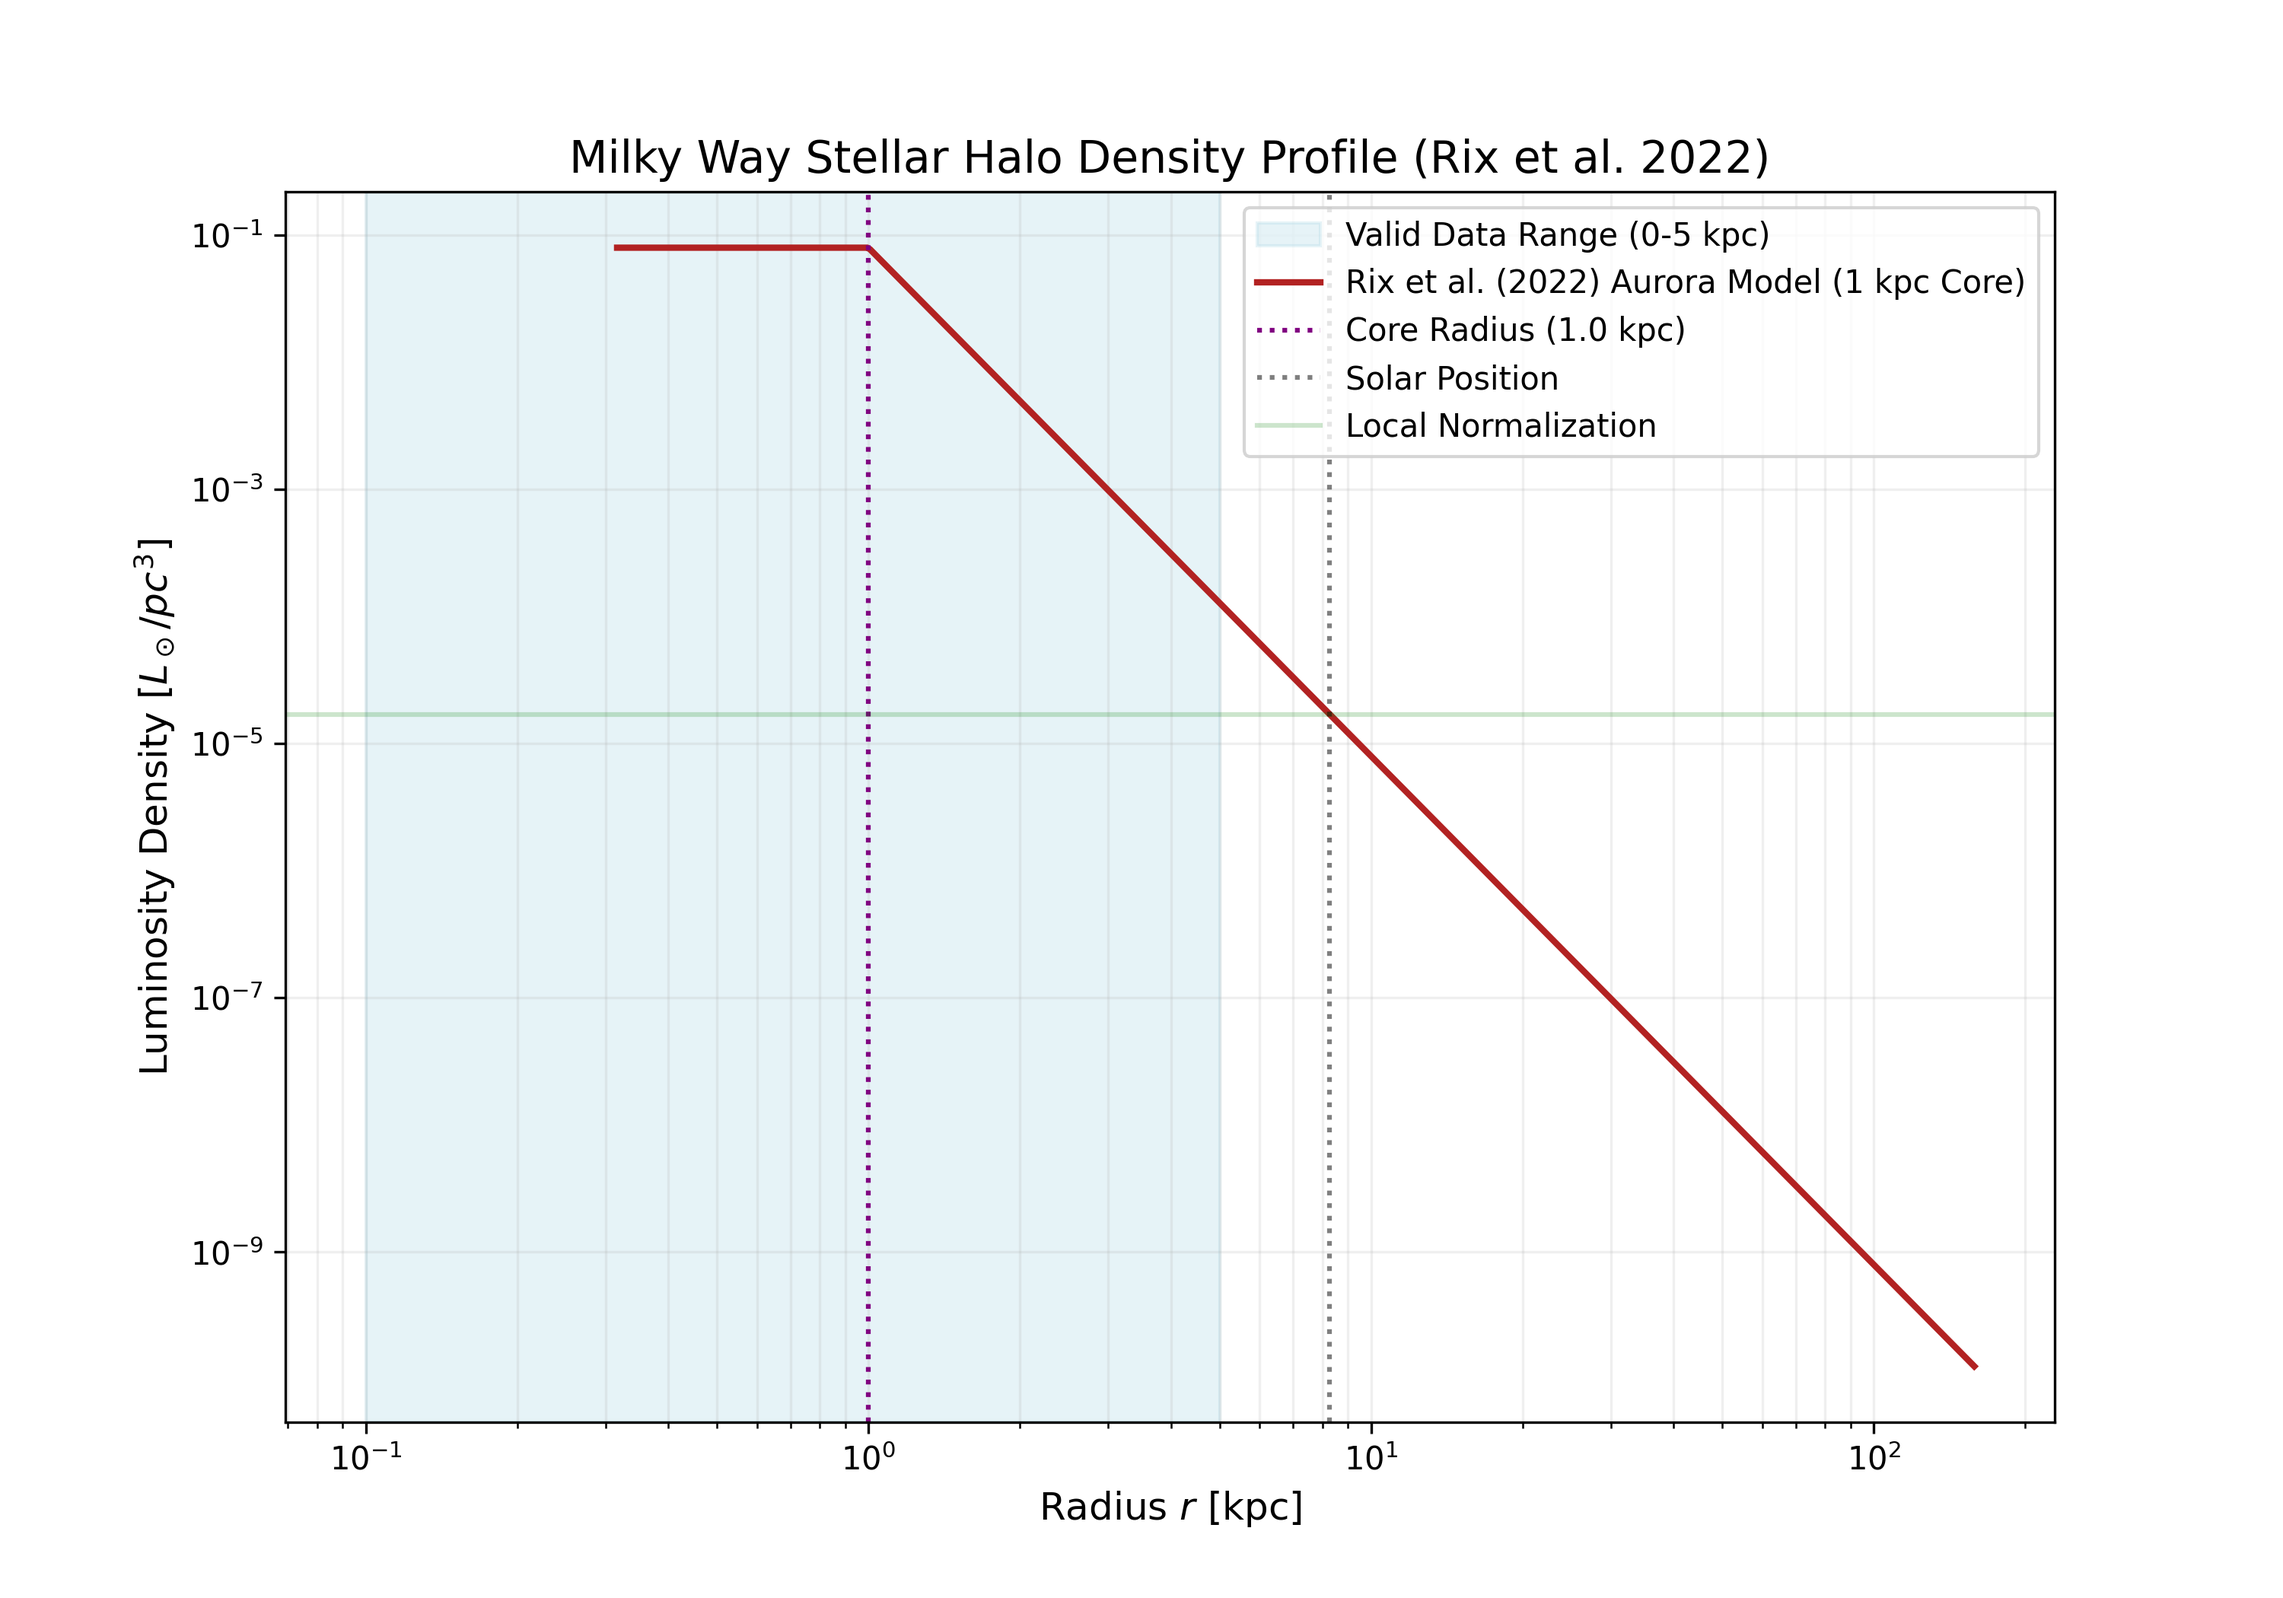
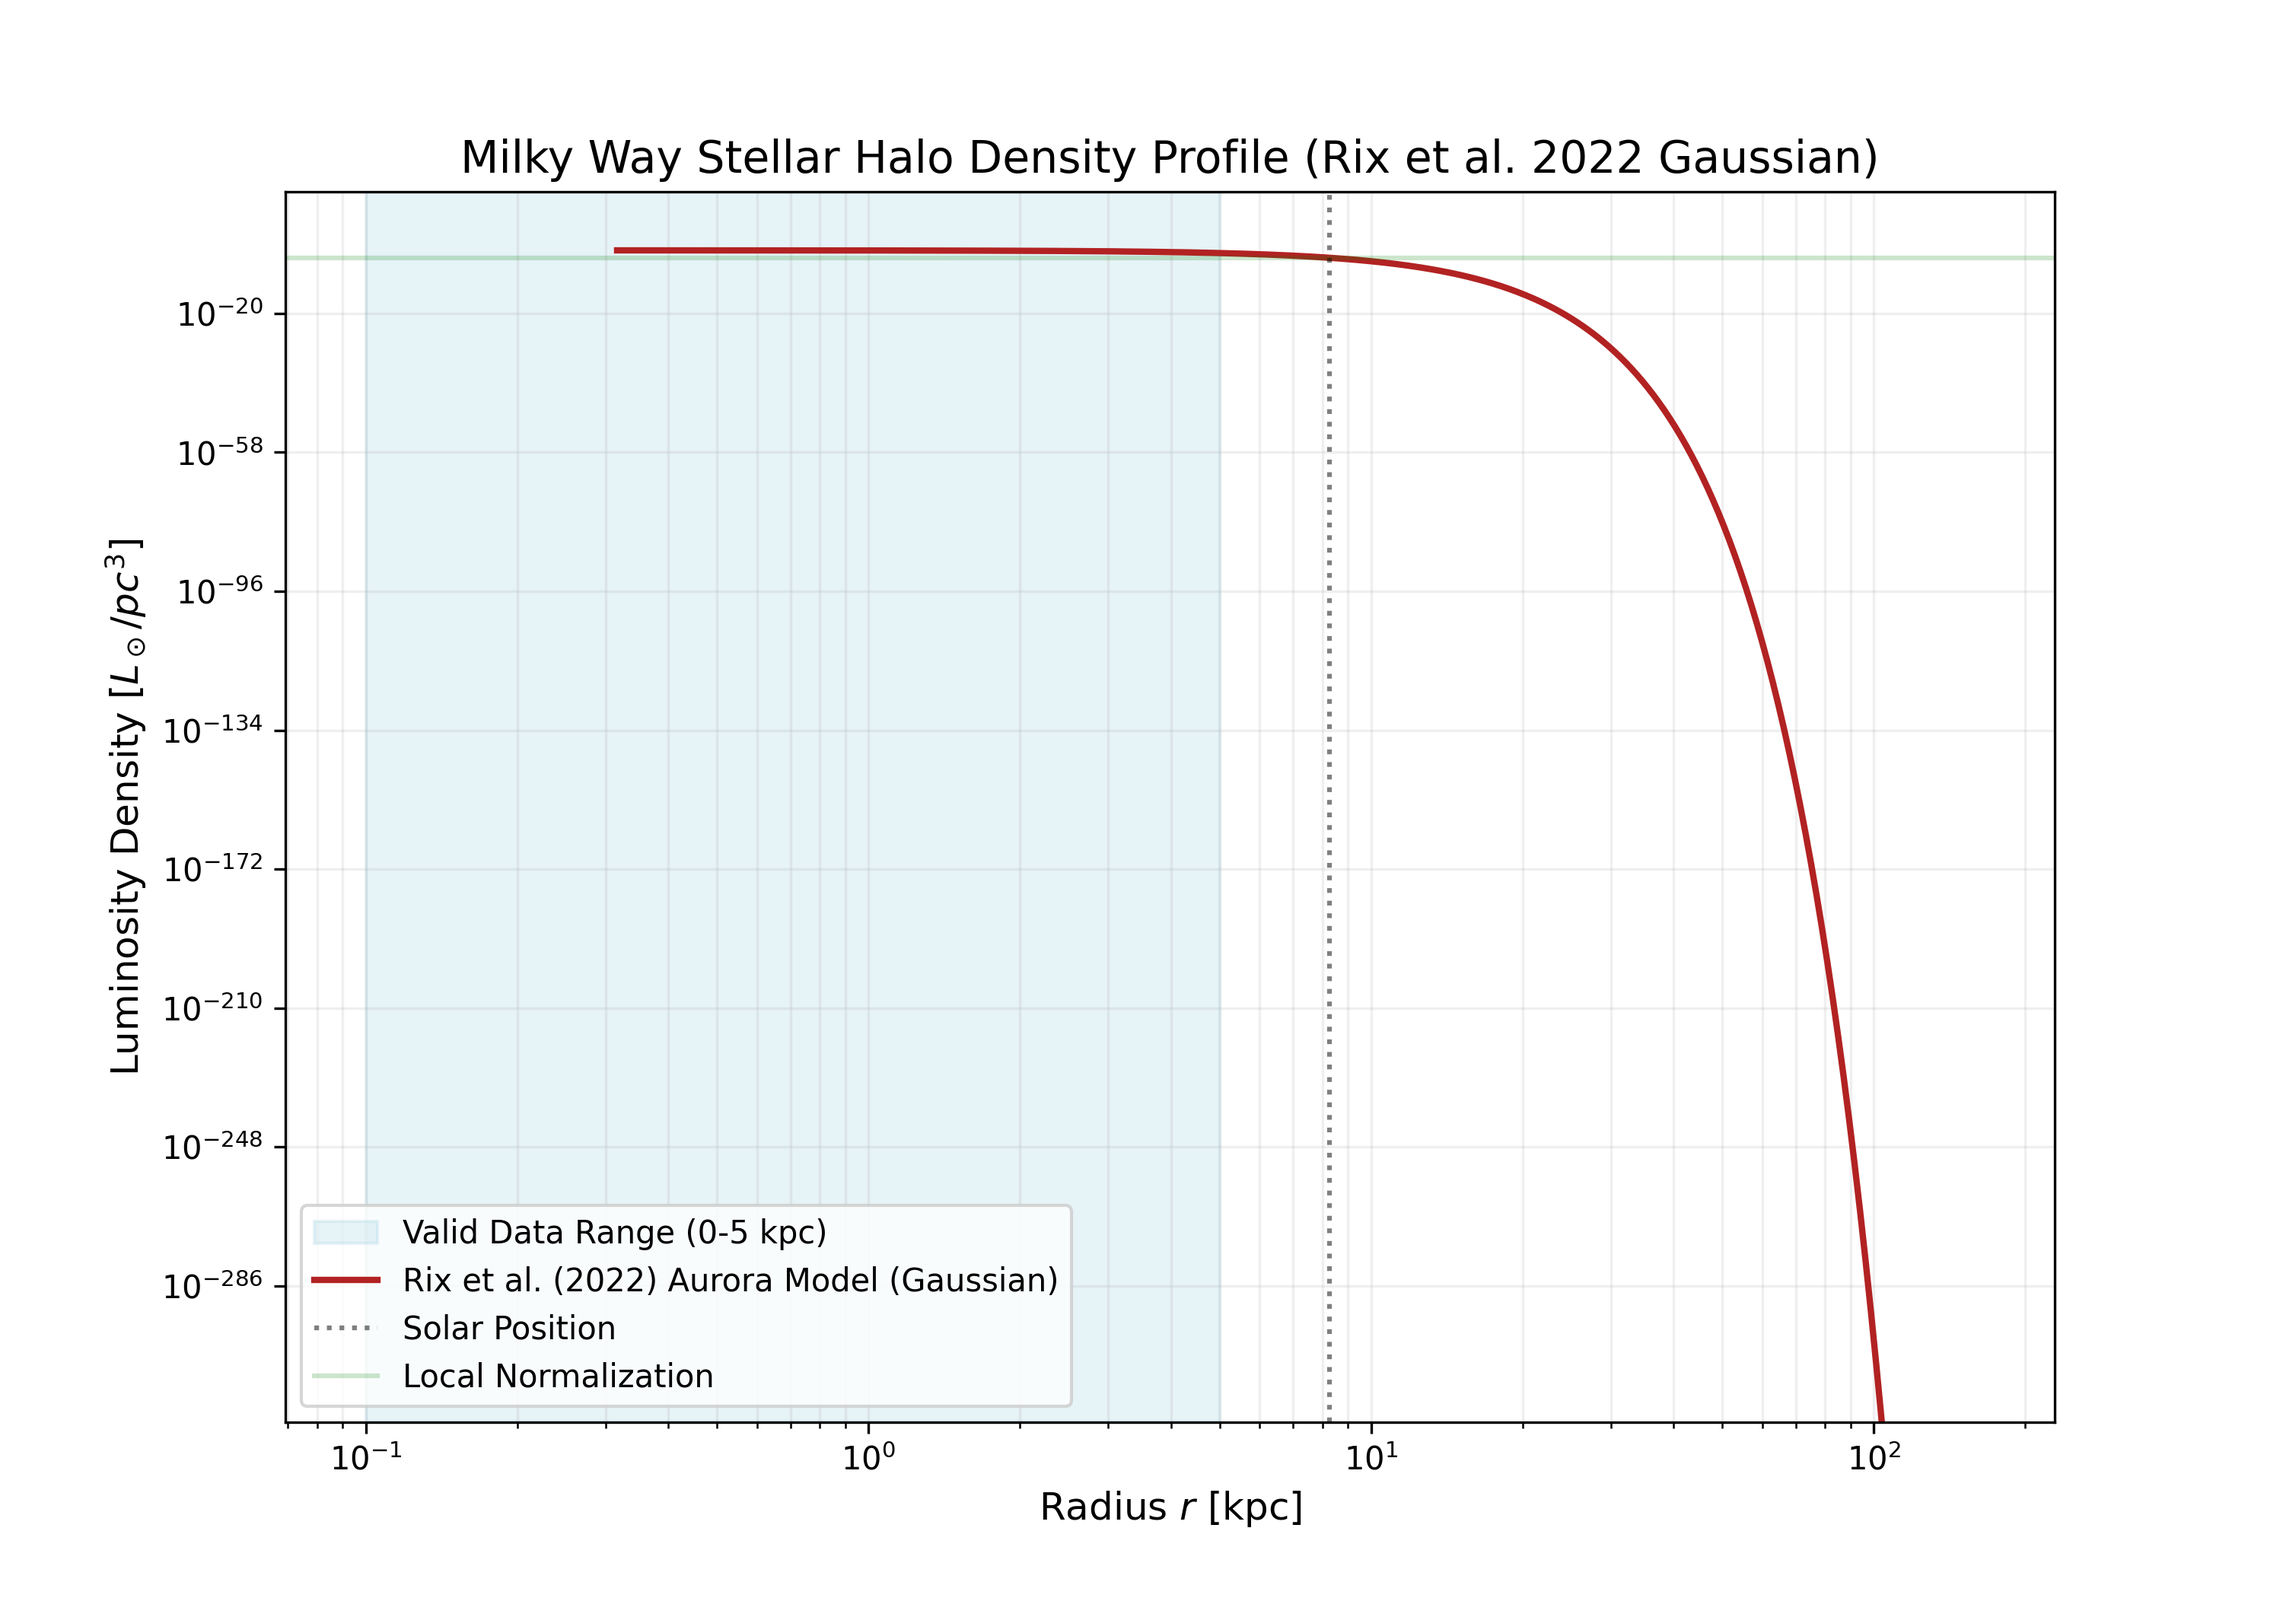
Add files via upload
Dropped Rix et al 2022 power law model

diff --git a/script.js b/script.js
@@ -115,7 +115,6 @@ const ModelPhysics = {
             wu2025: (rad) => rad < 8 ? 4 * Math.PI * 1.0 * 0.4 : (rad > 25 ? 4 * Math.PI * 1.0 * 0.8 : 4 * Math.PI * 1.0 * (0.4 + 0.4 * (rad - 8) / 17)),
             wu2022: (rad) => rad < 8 ? 4 * Math.PI * 1.0 * 0.4 : (rad > 25 ? 4 * Math.PI * 1.0 * 0.8 : 4 * Math.PI * 1.0 * (0.4 + 0.4 * (rad - 8) / 17)),
             rix2022: 4 * Math.PI * 1.0 * 1.0,
-            rix2022gau: 4 * Math.PI * 1.0 * 1.0,
             cavieres2025: 4 * Math.PI * 1.0 * 0.98,
             feng2024: 4 * Math.PI * 1.0 * 1.0,
             fukushima2025: 4 * Math.PI * 1.0 * 1.56,
@@ -154,7 +153,6 @@ const ModelPhysics = {
             wu2025: (rad) => rad < 8 ? 0.4 : (rad > 25 ? 0.8 : 0.4 + 0.4 * (rad - 8) / 17),
             wu2022: (rad) => rad < 8 ? 0.4 : (rad > 25 ? 0.8 : 0.4 + 0.4 * (rad - 8) / 17),
             rix2022: 1.0,
-            rix2022gau: 1.0,
             cavieres2025: 0.98,
             feng2024: 1.0,
             fukushima2025: 1.56,
@@ -337,12 +335,6 @@ const ModelPhysics = {
     },
 
     rix2022: (r) => {
-        const a=4.0, core=ModelPhysics.currentCoreRadius, R_sun=8.275;
-        const rho_norm = (1.7e-5) / Math.pow(R_sun, -a);
-        return ModelPhysics.applyCore(r, core, (rad) => rho_norm * Math.pow(rad, -a));
-    },
-
-    rix2022gau: (r) => {
         const sigma=2.7, R_sun=8.275;
         const rho_norm = 1.7e-5;
         return rho_norm * Math.exp(-(r*r - R_sun*R_sun) / (2 * sigma*sigma));
@@ -803,7 +795,7 @@ function renderDetail(id) {
                             <h3>Total Halo Luminosity</h3>
                             <p>Local norm: 1.7E-5 L<sub>&odot;</sub>/pc<sup>3</sup> at R=8.275 kpc</p>
                             <div class="luminosity-value">${formatLuminosity(getLuminosityValue(model))}</div>
-                            ${model.id !== 'rix2022gau' ? `
+                            ${model.id !== 'rix2022' ? `
                             <div class="core-sensitivity-container" style="margin-top: 20px; border-top: 1px solid rgba(255,255,255,0.2); padding-top: 15px;">
                                 <h4 style="font-size: 0.95rem; margin-bottom: 10px; color: var(--accent-color);">Sensitivity to Core Radius (R<sub>core</sub>)</h4>
                                 <table class="sensitivity-table" style="width:100%; font-size:0.9rem; text-align:left; border-collapse:collapse; color:white;">
@@ -841,8 +833,8 @@ function renderDetail(id) {
                     <div class="plot-pane">
                         <h3>Interactive Model Analysis</h3>
                         <div class="plot-container" id="unifiedPlotContainer" style="height: 600px;"></div>
-                        <div style="margin-top: 20px; display: flex; justify-content: ${model.id !== 'rix2022gau' ? 'space-between' : 'flex-end'}; align-items: center; flex-wrap: wrap; gap: 15px;">
-                            ${model.id !== 'rix2022gau' ? `
+                        <div style="margin-top: 20px; display: flex; justify-content: ${model.id !== 'rix2022' ? 'space-between' : 'flex-end'}; align-items: center; flex-wrap: wrap; gap: 15px;">
+                            ${model.id !== 'rix2022' ? `
                             <div class="detail-selector-wrapper">
                                 ${renderCoreSelectorHTML()}
                             </div>
@@ -907,7 +899,7 @@ function renderUnifiedPlot(model, containerId = 'unifiedPlotContainer') {
             { type: 'rect', xref: 'x', yref: 'paper', x0: model.range.min, x1: model.range.max, y0: 0, y1: 1, fillcolor: 'rgba(52, 152, 219, 0.15)', line: { width: 0 }, layer: 'below' },
             { type: 'line', xref: 'x', yref: 'paper', x0: 8.275, x1: 8.275, y0: 0, y1: 1, line: { color: 'green', width: 2, dash: 'dashdot' } }
         ];
-        if (model.id !== 'rix2022gau') {
+        if (model.id !== 'rix2022') {
             shapes.push({ type: 'line', xref: 'x', yref: 'paper', x0: ModelPhysics.currentCoreRadius, x1: ModelPhysics.currentCoreRadius, y0: 0, y1: 0.6, line: { color: '#e67e22', width: 2, dash: 'dot' } });
         }
         Object.entries(model.parameters).forEach(([key, val]) => {
@@ -928,7 +920,7 @@ function renderUnifiedPlot(model, containerId = 'unifiedPlotContainer') {
 
         traces.push({ x: [null], y: [null], mode: 'lines', line: { color: 'rgba(52, 152, 219, 0.3)', width: 10 }, name: 'Valid Data Range' });
         traces.push({ x: [null], y: [null], mode: 'lines', line: { color: 'green', width: 2, dash: 'dashdot' }, name: 'Sun (R₀=8.275)' });
-        if (model.id !== 'rix2022gau') {
+        if (model.id !== 'rix2022') {
             traces.push({ x: [null], y: [null], mode: 'lines', line: { color: '#e67e22', width: 2, dash: 'dot' }, name: `Core Radius (${ModelPhysics.currentCoreRadius} kpc)` });
         }
         traces.push({ x: [null], y: [null], mode: 'lines', line: { color: 'red', width: 1.5, dash: 'dot' }, name: 'Break/Scale Radii' });

diff --git a/index.html b/index.html
@@ -13,7 +13,7 @@
         <div class="container">
             <h1><a href="#/">Models of the Milky Way stellar halo</a></h1>
             <p>A compendium of stellar density profiles and analysis</p>
-            <p class="disclaimer">This is a project in progress. The project is to understand how well AI tools can process papers on a topic in astronomy (the number density of stars in the Milky Way halo as a function of Galactocentric radius), produce summaries of the work, extract formulae of fitting models, work out what the best fitting parameters are, write code to plot the models, and estimate a new quantity (the integrated luminosity of the halo). Latest update: 23-06-26</p>
+            <p class="disclaimer">This is a project in progress. The project is to understand how well AI tools can process papers on a topic in astronomy (the number density of stars in the Milky Way halo as a function of Galactocentric radius), produce summaries of the work, extract formulae of fitting models, work out what the best fitting parameters are, write code to plot the models, and estimate a new quantity (the integrated luminosity of the halo). Latest update: 24-06-26</p>
             <nav class="main-nav">
                 <a href="#/">Home</a>
                 <a href="#/comparison">Interactive Comparison</a>

diff --git a/assets/rix2022_density_model.py b/assets/rix2022_density_model.py
@@ -3,58 +3,43 @@ import matplotlib.pyplot as plt
 
 def calculate_rix2022_halo():
     # Parameters from Rix et al. (2022) - ApJ 941, 45
-    # Model: Single Power Law (for the ancient "Aurora" core)
-    alpha = 4.0
-    r_core = 1.0   # 1 kpc constant density core (project requirement)
-    q = 1.0        # Nearly spherical
+    # Model: Gaussian density falloff (for the ancient "Aurora" core)
+    sigma = 2.7
+    q = 1.0        # Spherical
     R_sun = 8.275 
 
     # User local norm
     rho_local_Lsun_pc3 = 1.7e-5
     rho_local_Lsun_kpc3 = rho_local_Lsun_pc3 * (1000**3)
 
-    # Power Law Profile with Core
+    # Gaussian Profile (No Core)
     def profile(r):
-        if r < r_core:
-            return r_core**-alpha
-        else:
-            return r**-alpha
+        return np.exp(-(r**2 - R_sun**2) / (2 * sigma**2))
 
-    # Normalization at the Sun
-    norm_at_sun = profile(R_sun)
-    rho_0 = rho_local_Lsun_kpc3 / norm_at_sun
+    # Analytical Integration (Total Luminosity)
+    from scipy.integrate import quad
+    fn = lambda r: rho_local_Lsun_kpc3 * np.exp(-(r**2 - R_sun**2)/(2*sigma**2)) * 4 * np.pi * (r**2)
+    L_total, _ = quad(fn, 0, np.inf)
 
-    # Analytical Integration for Luminosity
-    # L = 4 * pi * q * Integral[ rho(r) * r^2 dr ]
-    # Part 0: 0 to r_core
-    int0 = (r_core**-alpha) * (r_core**3 / 3.0)
-    # Part 1: r_core to infinity
-    int1 = (0 - r_core**(3 - alpha)) / (3 - alpha)
-    
-    L_total = 4 * np.pi * q * rho_0 * (int0 + int1)
-
-    print(f"--- Rix et al. (2022) Aurora Halo Properties ---")
-    print(f"Central Norm (rho_0 at 1kpc): {rho_0:.2e} Lsun/kpc^3")
+    print(f"--- Rix et al. (2022) Aurora Halo [Gaussian] Properties ---")
     print(f"Total Halo Luminosity:        {L_total:.2e} Lsun")
-    print(f"Power-law index (alpha):      {alpha}")
-    print(f"Core Radius (r_core):         {r_core} kpc")
+    print(f"Sigma (sigma):                {sigma} kpc")
     print(f"Flattening (q):               {q} (Spherical)")
     print(f"--------------------------------------------------")
 
     # Plotting
     r_vals = np.logspace(-0.5, 2.2, 500)
-    rho_vals = np.array([rho_0 * profile(r) for r in r_vals])
+    rho_vals = np.array([rho_local_Lsun_pc3 * profile(r) for r in r_vals])
 
     plt.figure(figsize=(10, 7))
     plt.axvspan(0.1, 5, color='lightblue', alpha=0.3, label='Valid Data Range (0-5 kpc)')
-    plt.loglog(r_vals, rho_vals / (1000**3), color='firebrick', linewidth=2, label='Rix et al. (2022) Aurora Model (1 kpc Core)')
+    plt.loglog(r_vals, rho_vals, color='firebrick', linewidth=2, label='Rix et al. (2022) Aurora Model (Gaussian)')
     
     # Markers
-    plt.axvline(r_core, color='purple', linestyle=':', label=f'Core Radius ({r_core} kpc)')
     plt.axvline(R_sun, color='black', linestyle=':', alpha=0.5, label='Solar Position')
     plt.axhline(rho_local_Lsun_pc3, color='green', linestyle='-', alpha=0.2, label='Local Normalization')
 
-    plt.title('Milky Way Stellar Halo Density Profile (Rix et al. 2022)', fontsize=14)
+    plt.title('Milky Way Stellar Halo Density Profile (Rix et al. 2022 Gaussian)', fontsize=14)
     plt.xlabel('Radius $r$ [kpc]', fontsize=12)
     plt.ylabel('Luminosity Density [$L_\\odot/pc^3$]', fontsize=12)
     plt.legend(frameon=True)

diff --git a/compendium_plots.py b/compendium_plots.py
@@ -13,7 +13,7 @@ import json
 # produce summaries of the work, extract formulae of fitting models, work out 
 # what the best fitting parameters are, write code to plot the models, and 
 # estimate a new quantity (the integrated luminosity of the halo). 
-# Latest update: 23-06-26
+# Latest update: 24-06-26
 #
 # This code is autogenerated using an AI tool (Gemini/CLI).
 # =============================================================================
@@ -138,12 +138,6 @@ MODELS_JSON = """
   {
     "id": "rix2022",
     "title": "Rix et al. (2022)",
-    "luminosity": "1.34e+09 L⊙",
-    "range": {"min": 0, "max": 5}
-  },
-  {
-    "id": "rix2022gau",
-    "title": "Rix et al. (2022) (Gaussian)",
     "luminosity": "5.77e+08 L⊙",
     "range": {"min": 0, "max": 5}
   },
@@ -245,7 +239,6 @@ class ModelPhysics:
             'wu2025': 4 * np.pi * 1.0 * (0.4 if r < 8 else (0.8 if r > 25 else 0.4 + 0.4 * (r - 8) / 17)),
             'wu2022': 4 * np.pi * 1.0 * (0.4 if r < 8 else (0.8 if r > 25 else 0.4 + 0.4 * (r - 8) / 17)),
             'rix2022': 4 * np.pi * 1.0 * 1.0,
-            'rix2022gau': 4 * np.pi * 1.0 * 1.0,
             'cavieres2025': 4 * np.pi * 1.0 * 0.98,
             'feng2024': 4 * np.pi * 1.0 * 1.0,
             'fukushima2025': 4 * np.pi * 1.0 * 1.56,
@@ -317,8 +310,7 @@ class ModelPhysics:
             rho_norm = 1.7e-5 / raw(ModelPhysics.R_SUN)
             r_eff = max(r, core)
             return rho_norm * raw(r_eff)
-        if id == 'rix2022': return spl(r, 4.0, core)
-        if id == 'rix2022gau':
+        if id == 'rix2022':
             sigma = 2.7
             return ModelPhysics.RHO_LOCAL_PC3 * np.exp(-(r**2 - ModelPhysics.R_SUN**2) / (2 * sigma**2))
         if id == 'cavieres2025': return bpl(r, 3.13, 7.46, 67.5, core)
@@ -512,7 +504,7 @@ if __name__ == "__main__":
 > Milky Way halo as a function of Galactocentric radius), produce summaries of 
 > the work, extract formulae of fitting models, work out what the best fitting 
 > parameters are, write code to plot the models, and estimate a new quantity 
-> (the integrated luminosity of the halo). Latest update: 23-06-26
+> (the integrated luminosity of the halo). Latest update: 24-06-26
 """
     print(disclaimer)
     data = json.loads(MODELS_JSON)
